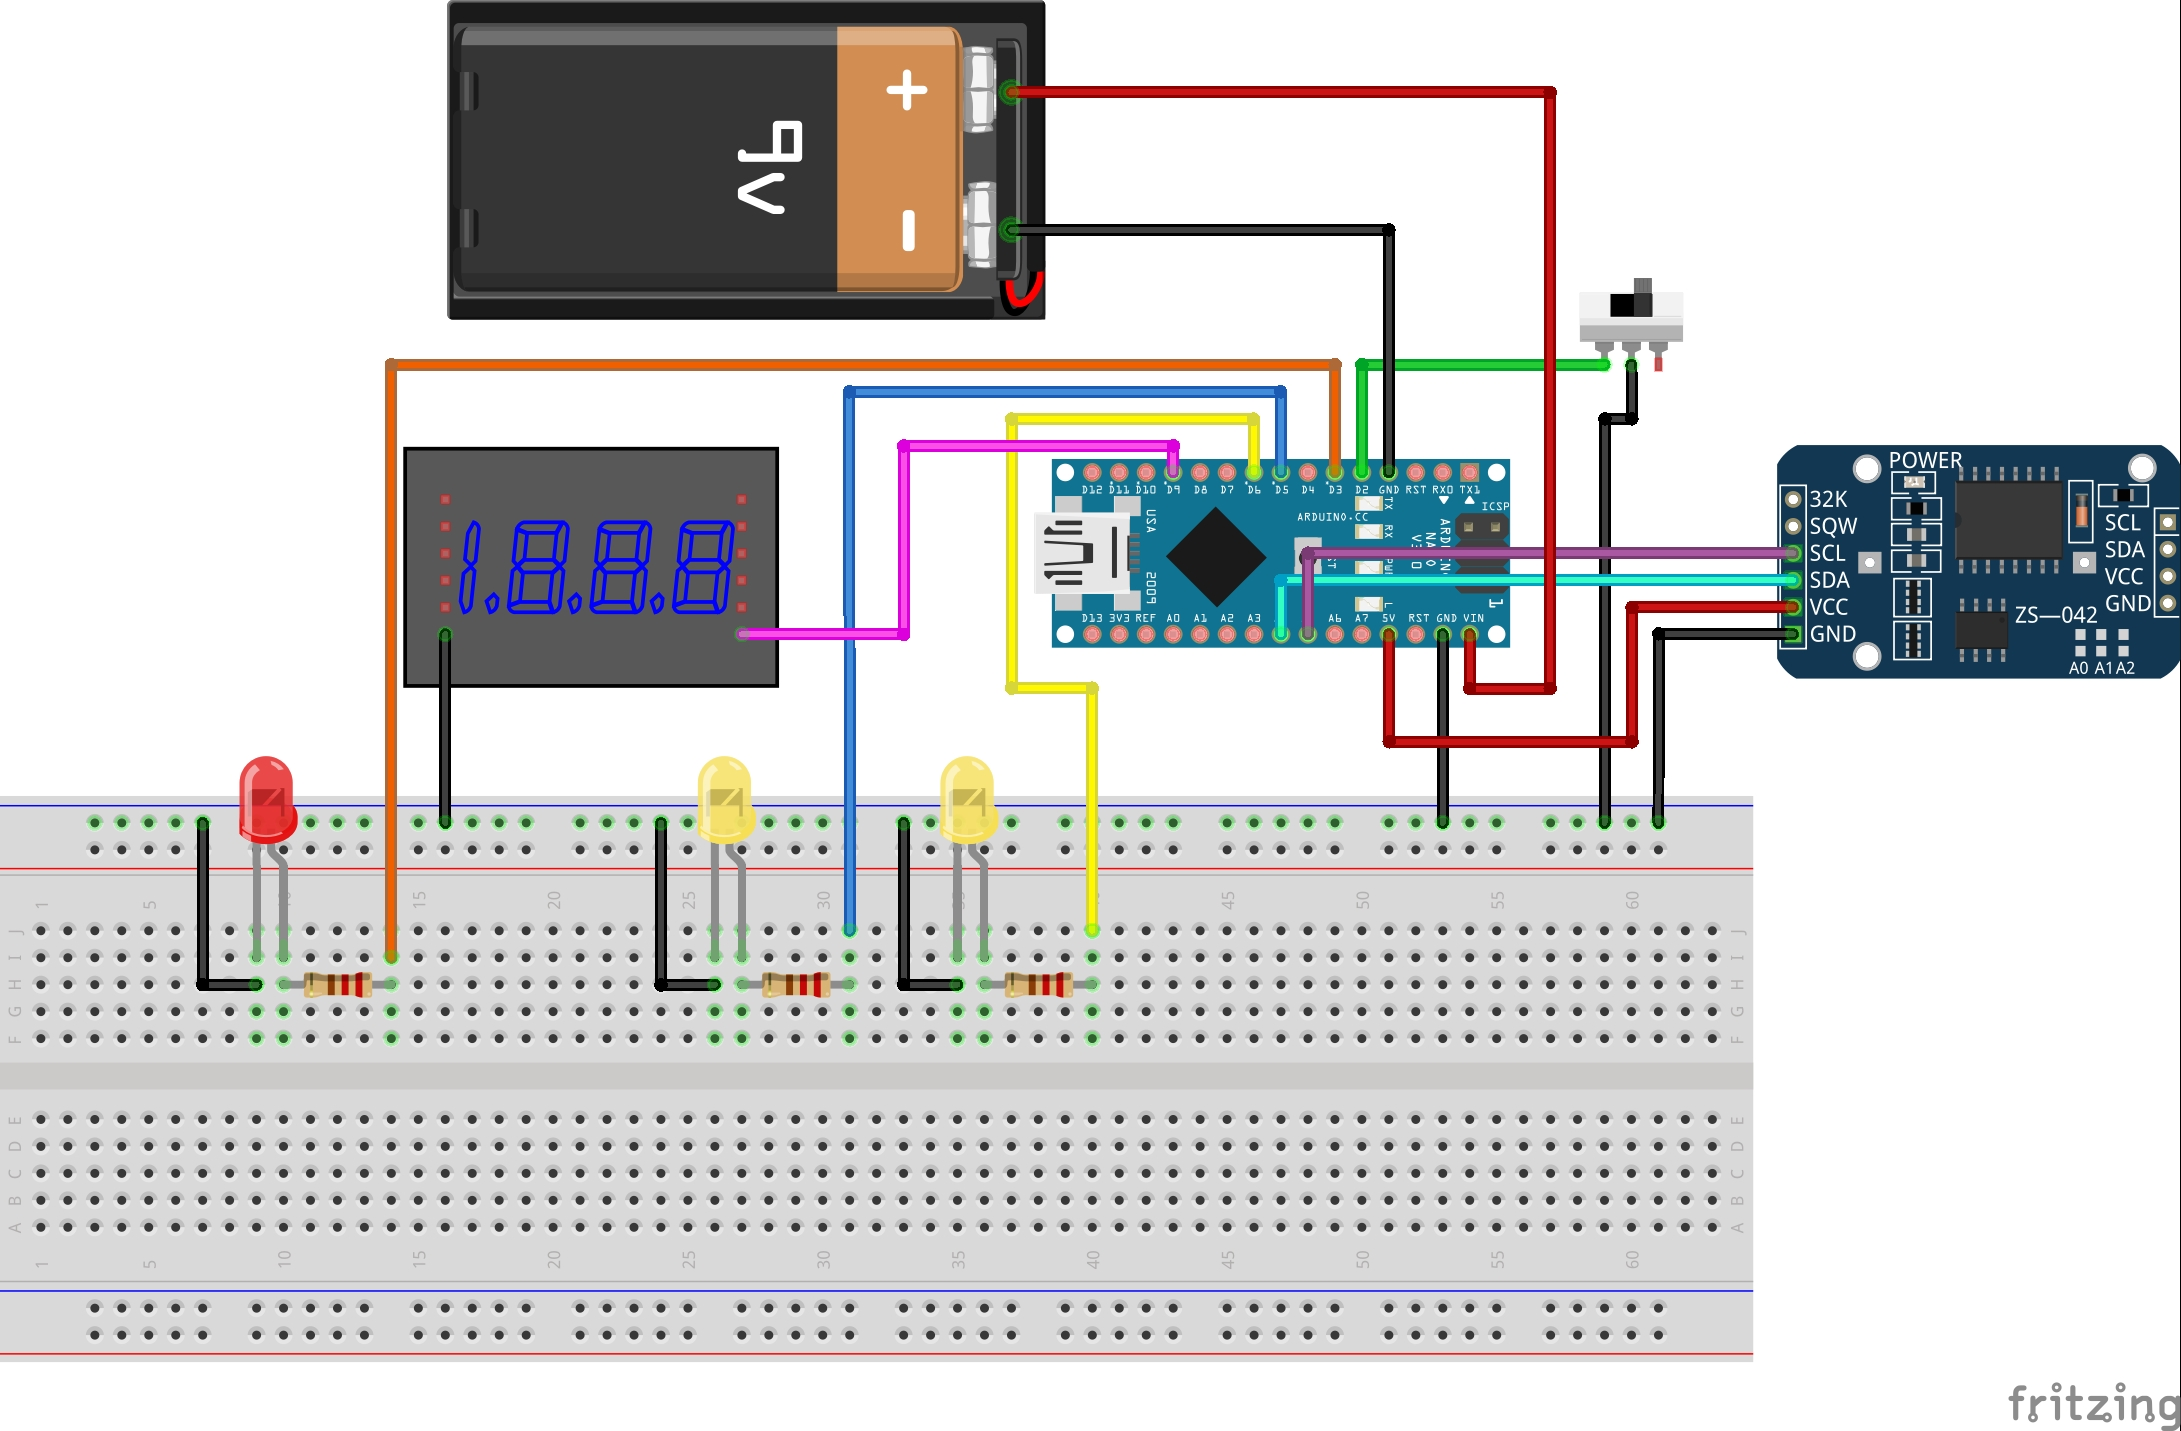
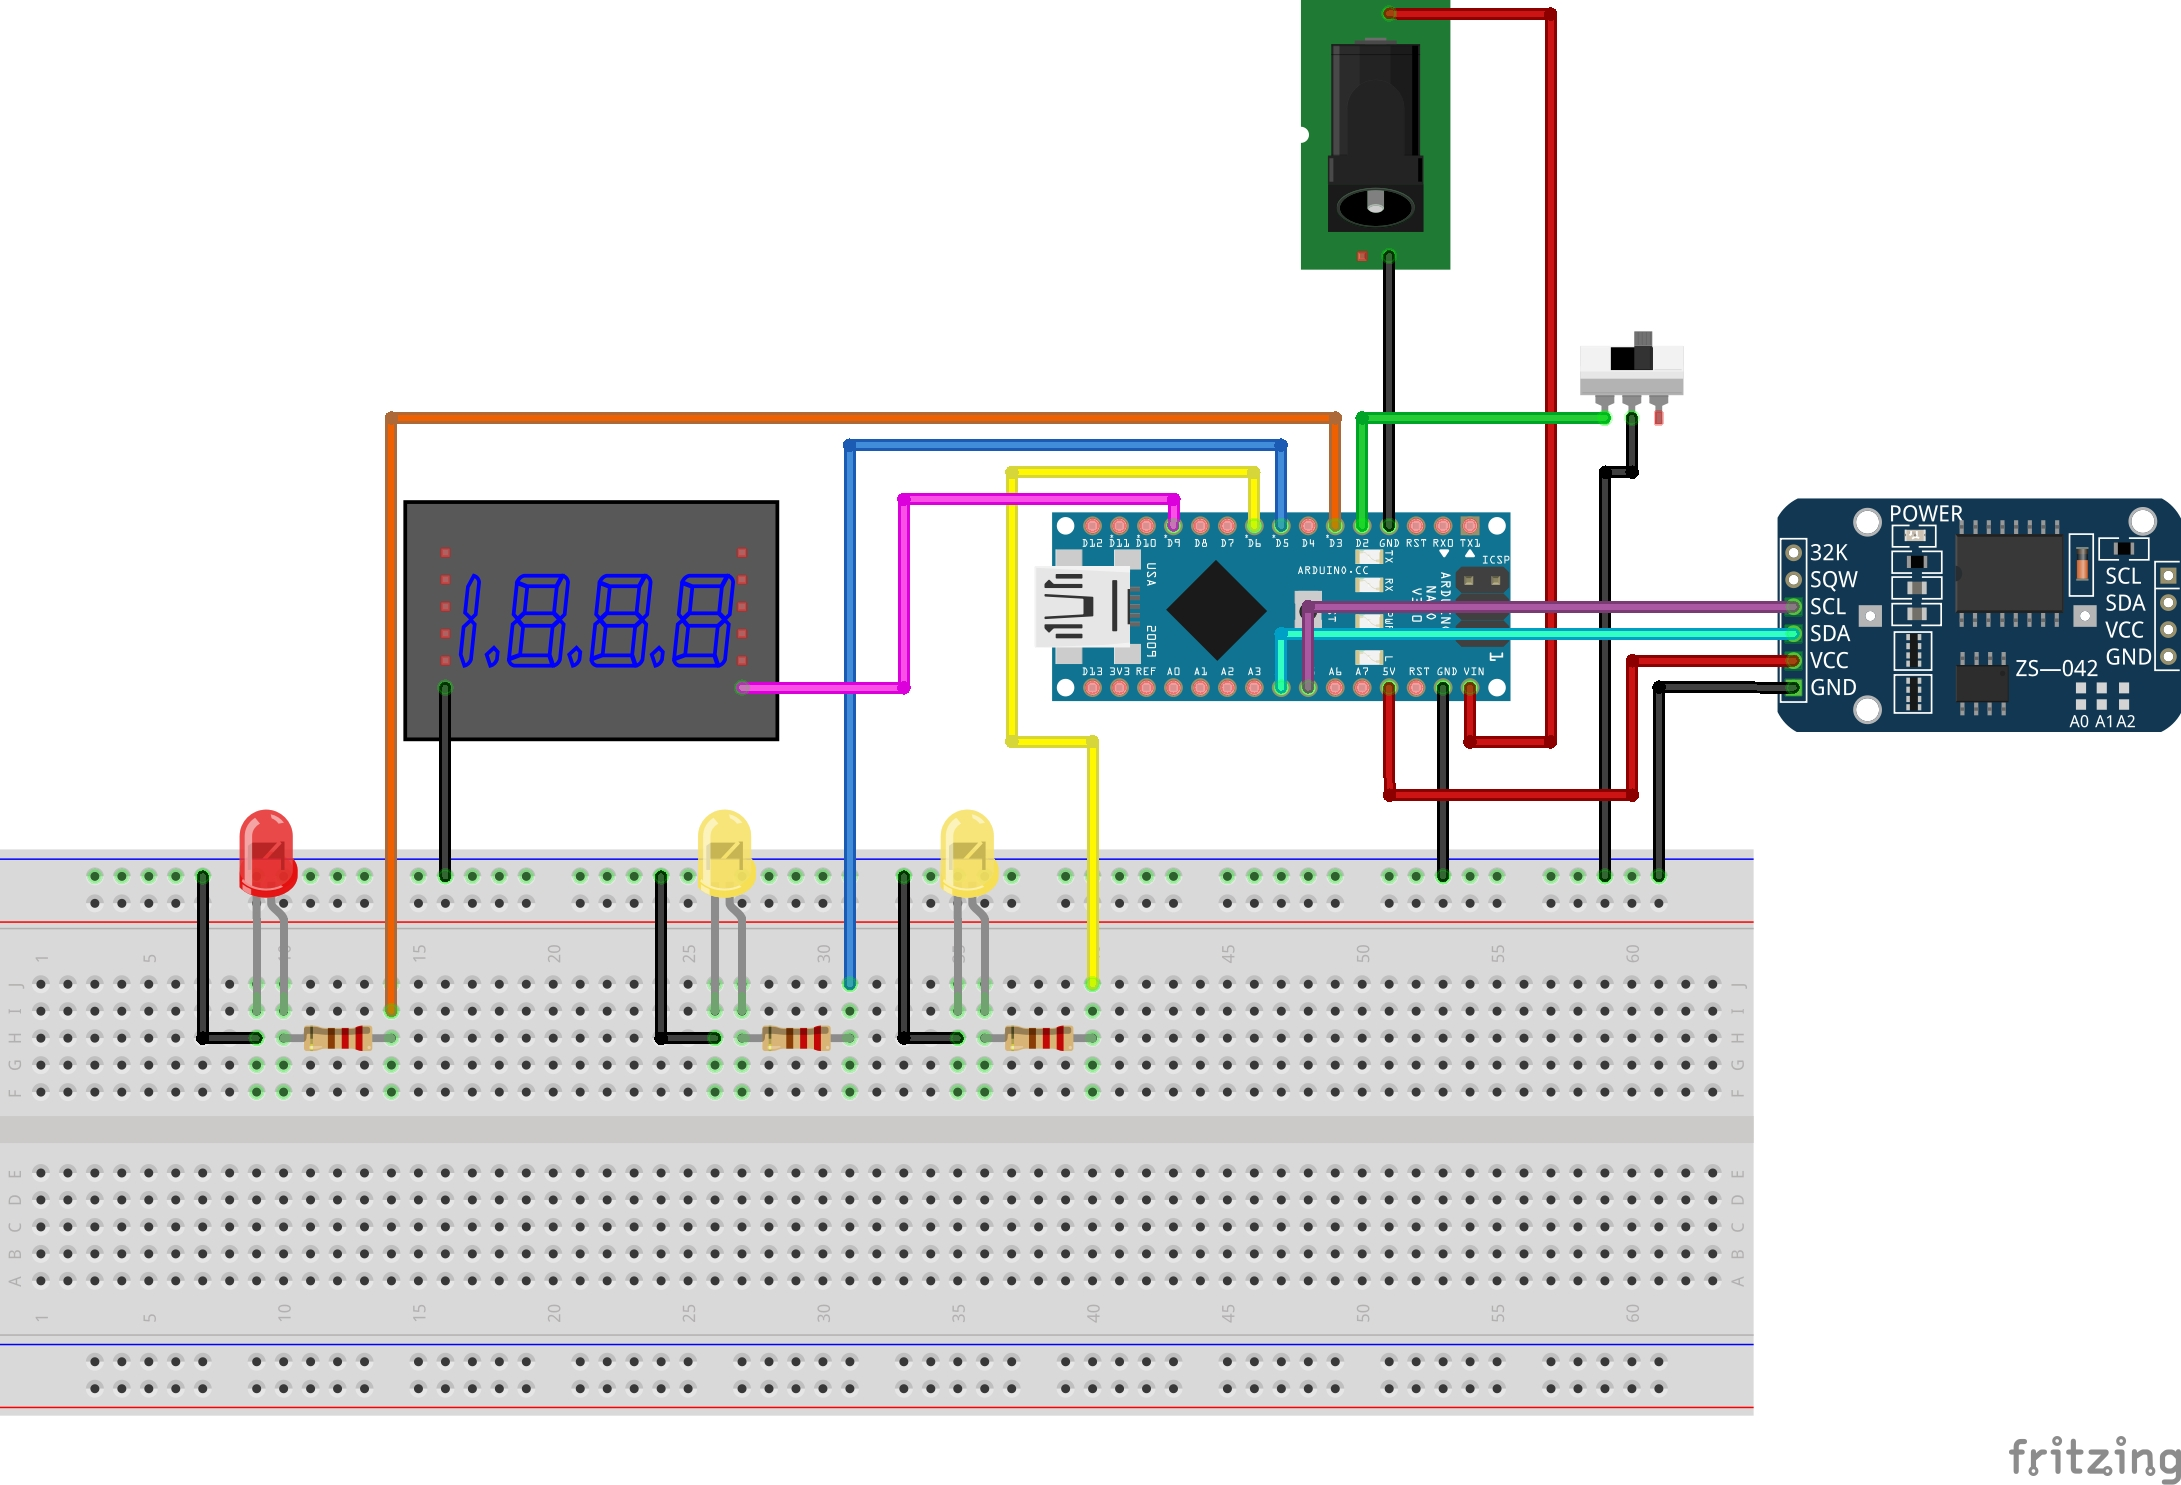
V0.03

Changed region(s): [[0.0, 0.0, 1.0, 1.0], [0.0, 0.7687, 0.8106, 0.9532]]

diff --git a/README.md b/README.md
@@ -1,10 +1,11 @@
 # Voltmeter-Clock
 
 ## Parts
-- 1 x 5V analog voltmeter
+- 1 x 5V Analog voltmeter
 - 1 x Arduino nano
 - 1 x RTC DS3231
 - 1 x SPDT Switch
-- 1 x red LED
-- 2 x yellow LED
-- 3 x 220Ω resistor
+- 1 x 5.5mm Barrel connector
+- 1 x Red LED
+- 2 x Yellow LED
+- 3 x 220Ω Resistor
